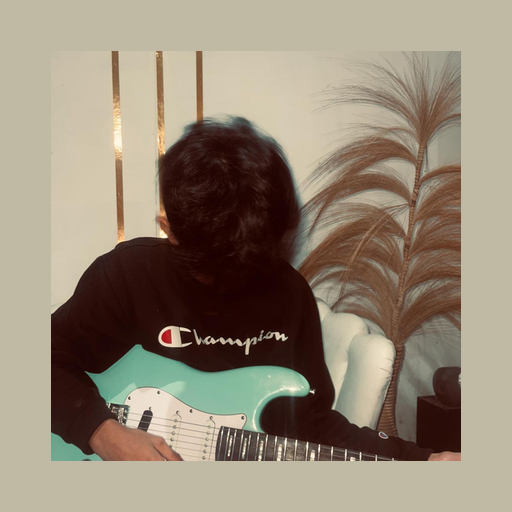
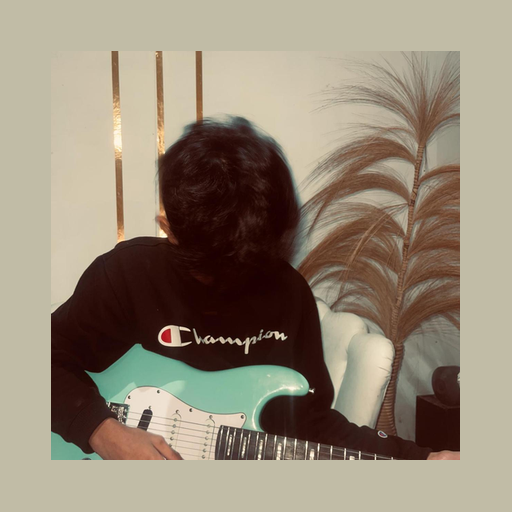
Add files via upload

diff --git a/index.html b/index.html
@@ -253,7 +253,7 @@ $('tidy').onclick=async()=>{
 
 /* ---------- form tambah/edit ---------- */
 function resetForm(){editId=null;['f-title','f-artist','f-album','f-audio','f-cover','f-lyrics'].forEach(i=>$(i).value='');$('formTitle').textContent='Tambah Lagu';$('cancel').style.display='none';$('aNote').textContent=''}
-function startEdit(id){const s=songs.find(x=>x.id===id);if(!s)return;editId=id;$('f-title').value=s.title;$('f-artist').value=s.artist||'';$('f-album').value=s.album||'';$('f-lyrics').value=s.lyrics||'';$('formTitle').textContent='Edit Lagu';$('cancel').style.display='block';$('aNote').textContent='(kosongkan jika tidak diganti)';window.scrollTo(0,0);document.querySelector('main').scrollTop=0}
+function startEdit(id){const s=songs.find(x=>x.id===id);if(!s)return;editId=id;$('f-title').value=s.title;$('f-artist').value=s.artist||'';$('f-album').value=s.album||'';$('f-lyrics').value=stripMeta(s.lyrics);$('formTitle').textContent='Edit Lagu';$('cancel').style.display='block';$('aNote').textContent='(kosongkan jika tidak diganti)';window.scrollTo(0,0);document.querySelector('main').scrollTop=0}
 $('cancel').onclick=resetForm;
 function cleanTitle(t){
   return String(t).replace(/\s*[\(\[]?\s*(www\.)?([a-z0-9-]+\.(org|com|net|io|info|xyz|app|cc)|spotdown)\s*[\)\]]?/ig,' ').replace(/\s{2,}/g,' ').replace(/[\s\-–_]+$/,'').trim();
@@ -308,7 +308,7 @@ $('save').onclick=async()=>{
   let s=editId?songs.find(x=>x.id===editId):null;
   if(!s&&!a)return toast('Pilih file lagu dulu');
   const isNew=!s;if(isNew)s={id:Date.now()};
-  s.title=title;s.artist=$('f-artist').value.trim();s.album=$('f-album').value.trim();s.lyrics=$('f-lyrics').value;
+  s.title=title;s.artist=$('f-artist').value.trim();s.album=$('f-album').value.trim();s.lyrics=stripMeta($('f-lyrics').value);
   if(a)s.audio=a;if(c)s.cover=c;
   hydrate(s);if(isNew)songs.unshift(s);
   const ok=await persist(s);resetForm();render();
@@ -327,8 +327,9 @@ async function del(id){
 const fmt=t=>isFinite(t)?Math.floor(t/60)+':'+String(Math.floor(t%60)).padStart(2,'0'):'0:00';
 function play(id,keep){if(!keep)q=null;cur=songs.find(s=>s.id===id);if(!cur)return;au.src=cur.url;au.play().catch(()=>{});setUI();render()}
 function step(d){if(!songs.length||!cur)return;const L=curList(),i=L.findIndex(s=>s.id===cur.id);play(L[(i+d+L.length)%L.length].id,true)}
+function stripMeta(t){return (t||'').split('\n').filter(l=>!/^\s*\[[a-z#]{1,10}\s*:[^\]]*\]\s*$/i.test(l)).join('\n').replace(/^\s*\n+/,'')}
 function parseLyrics(t){
-  const lines=(t||'').split('\n'),out=[];let timed=false;
+  const lines=stripMeta(t).split('\n'),out=[];let timed=false;
   for(const l of lines){const m=l.match(/^\[(\d+):(\d+(?:\.\d+)?)\]\s*(.*)$/);if(m){timed=true;out.push({t:+m[1]*60+ +m[2],x:m[3]})}else if(l.trim())out.push({t:null,x:l.trim()})}
   return {timed,lines:out};
 }
@@ -681,7 +682,7 @@ try{
   try{navigator.storage&&navigator.storage.persist&&navigator.storage.persist()}catch(e){}
   let all=[];try{all=await op('readonly',s=>s.getAll())}catch(e){}
   all=Array.isArray(all)?all:[];{const sr=all.find(x=>x&&x.st);if(sr)stats=Object.assign({id:'stats',st:true,plays:{},secs:{},last:{}},sr)}lists=all.filter(s=>s&&s.pl).sort((a,b)=>b.id-a.id);lists.forEach(p=>{p.coverUrl=p.cover?URL.createObjectURL(p.cover):null;p.songIds=p.songIds||[]});songs=all.filter(s=>s&&s.audio).sort((a,b)=>b.id-a.id);
-  songs.forEach(hydrate);songs.forEach(s=>{const c=cleanTitle(s.title);if(c&&c!==s.title){s.title=c;persist(s)}});render();icons();applyPrefs();
+  songs.forEach(hydrate);songs.forEach(s=>{const l=stripMeta(s.lyrics);if(s.lyrics&&l!==s.lyrics){s.lyrics=l;persist(s)}});songs.forEach(s=>{const c=cleanTitle(s.title);if(c&&c!==s.title){s.title=c;persist(s)}});render();icons();applyPrefs();
   $('stor').textContent=db?'✓ Penyimpanan permanen aktif: lagu tetap ada setelah aplikasi ditutup.':'⚠ Penyimpanan browser tidak tersedia: lagu hanya tersimpan sementara.';
 })();
 </script>
